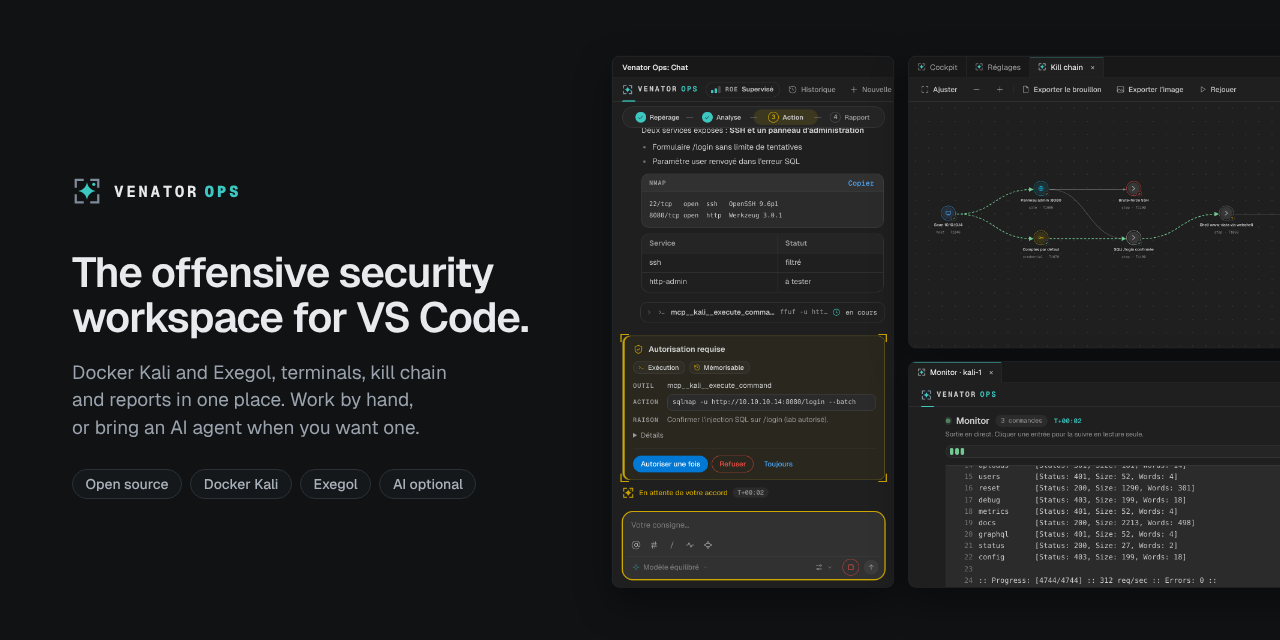
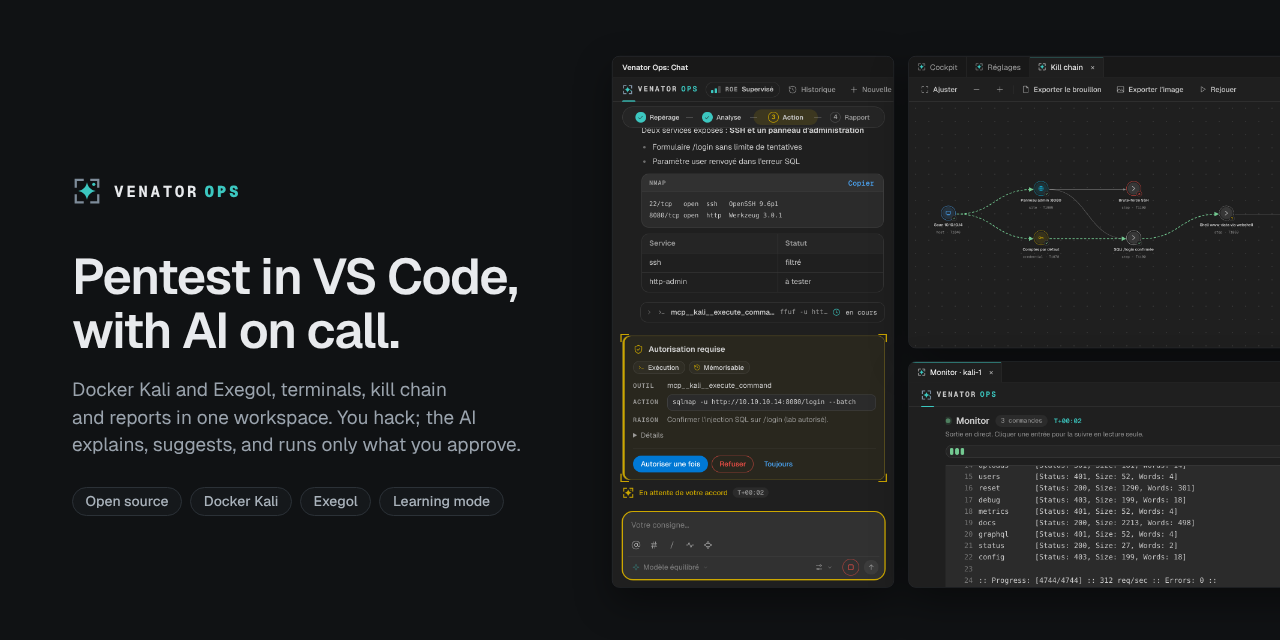
Marque Venator Ops : titre « Pentest in VS Code, with AI on call. »
- Post LinkedIn et bannières : nouveau titre qui dit en une phrase le
  pentest, VS Code et l’IA en appui ; texte « You hack; the AI explains,
  suggests, and runs only what you approve. ».
- Post : badge « Now open source » retiré, « Open source » rejoint les
  pastilles ; bannières : « AI optional » devient « Learning mode ».
- README et DESIGN.md : slogan et description des visuels mis à jour.

npm run check : 8 tests passés.

Claude-Session: https://claude.ai/code/session_01F7H1XGZHyAFoG5LN1doGUs

Changed region(s): [[0.0625, 0.4062, 0.4062, 0.7188], [0.0625, 0.75, 0.2812, 0.8125], [0.3125, 0.75, 0.375, 0.8125]]

diff --git a/DESIGN.md b/DESIGN.md
@@ -53,7 +53,8 @@ d’activité, monochrome) en sont les versions fixes.
 
 Nom retenu : **Venator Ops** (*venator*, « le chasseur » en latin ; aussi un
 genre d’araignées-loups et un clin d’œil aux destroyers de Star Wars). Slogan :
-*The offensive security workspace for VS Code*. C’est d’abord un espace de
+*Pentest in VS Code, with AI on call* (« on call » : l’IA est d’astreinte,
+disponible quand on l’appelle, jamais aux commandes). C’est d’abord un espace de
 travail : conteneurs Docker Kali puis Exegol (dans cet ordre), terminaux,
 Monitor, kill chain et rapports, utilisables entièrement sans IA ; l’agent est
 une option. Ne pas le présenter comme un agent autonome de plus. Le nom visible change ; les identifiants
@@ -66,10 +67,11 @@ Le logo reste celui de l’interface (`media/logo.svg`) ; le mot-symbole
 `media/brand/` : `banner-github.png` (1280 × 640, aperçu social du dépôt),
 `banner-github@2x.png` (README) et `banner-linkedin.png` (1584 × 396 en 2x,
 texte décalé hors de la photo de profil). Registre sobre : fond plat, aucune
-lueur ni dégradé ; titre « The offensive security workspace for VS Code. »,
-texte « Docker Kali and Exegol… Work by hand, or bring an AI agent when you
-want one. », puis quatre pastilles en pilule, en casse normale et sans
-séparateurs : « Open source », « Docker Kali », « Exegol », « AI optional ». À
+lueur ni dégradé ; titre « Pentest in VS Code, with AI on call. » (il dit
+l’essentiel en une phrase : pentest, VS Code, IA en appui), texte « Docker
+Kali and Exegol… You hack; the AI explains, suggests, and runs only what you
+approve. », puis quatre pastilles en pilule, en casse normale et sans
+séparateurs : « Open source », « Docker Kali », « Exegol », « Learning mode ». À
 droite, trois fenêtres séparées : chat à gauche, Kill chain en haut à droite,
 Monitor (kali-1) en bas à droite. Les captures viennent de l’aperçu de
 l’atelier ; leurs textes sont remplacés au moment de la capture par un lab
@@ -77,10 +79,10 @@ fictif (10.10.10.14, nmap, whatweb, ffuf, sqlmap), sans toucher aux fixtures.
 Aucune donnée réelle (IP, flags, identifiants) n’y figure.
 
 Visuel de post LinkedIn `linkedin-post.png` (1080 × 1350 en 2x, format 4:5
-qui occupe le plus de place dans le fil) : pastille « Now open source », titre
-« Your pentest lab, inside VS Code. » lisible sur mobile, même texte, mêmes
-trois fenêtres en grand et pastilles « Docker Kali », « Exegol », « Learning
-mode », « AI optional ».
+qui occupe le plus de place dans le fil) : logo seul en haut, même titre en
+grand pour le mobile, même texte, mêmes trois fenêtres et pastilles « Docker
+Kali », « Exegol », « Learning mode », « Open source ». Pas de badge du type
+« Now open source » : l’open source est une pastille comme les autres.
 
 Arguments à mettre en avant, dans cet ordre : l’espace de travail (Docker Kali
 puis Exegol, terminaux, Monitor, kill chain, rapports) utilisable sans IA ;

diff --git a/README.md b/README.md
@@ -1,9 +1,9 @@
-![Venator Ops — The offensive security workspace for VS Code](media/brand/banner-github@2x.png)
+![Venator Ops — Pentest in VS Code, with AI on call](media/brand/banner-github@2x.png)
 
 # Venator Ops — atelier de design VS Code
 
-*The offensive security workspace for VS Code* : conteneurs Docker Kali et
-Exegol, terminaux, Monitor, kill chain et rapports au même endroit. On peut tout
+*Pentest in VS Code, with AI on call* : un espace de travail avec conteneurs
+Docker Kali et Exegol, terminaux, Monitor, kill chain et rapports au même endroit. On peut tout
 faire à la main ; l’agent IA est une option, pas un passage obligé.
 
 Prototype autonome pour travailler la présentation : conversation, Monitor,
